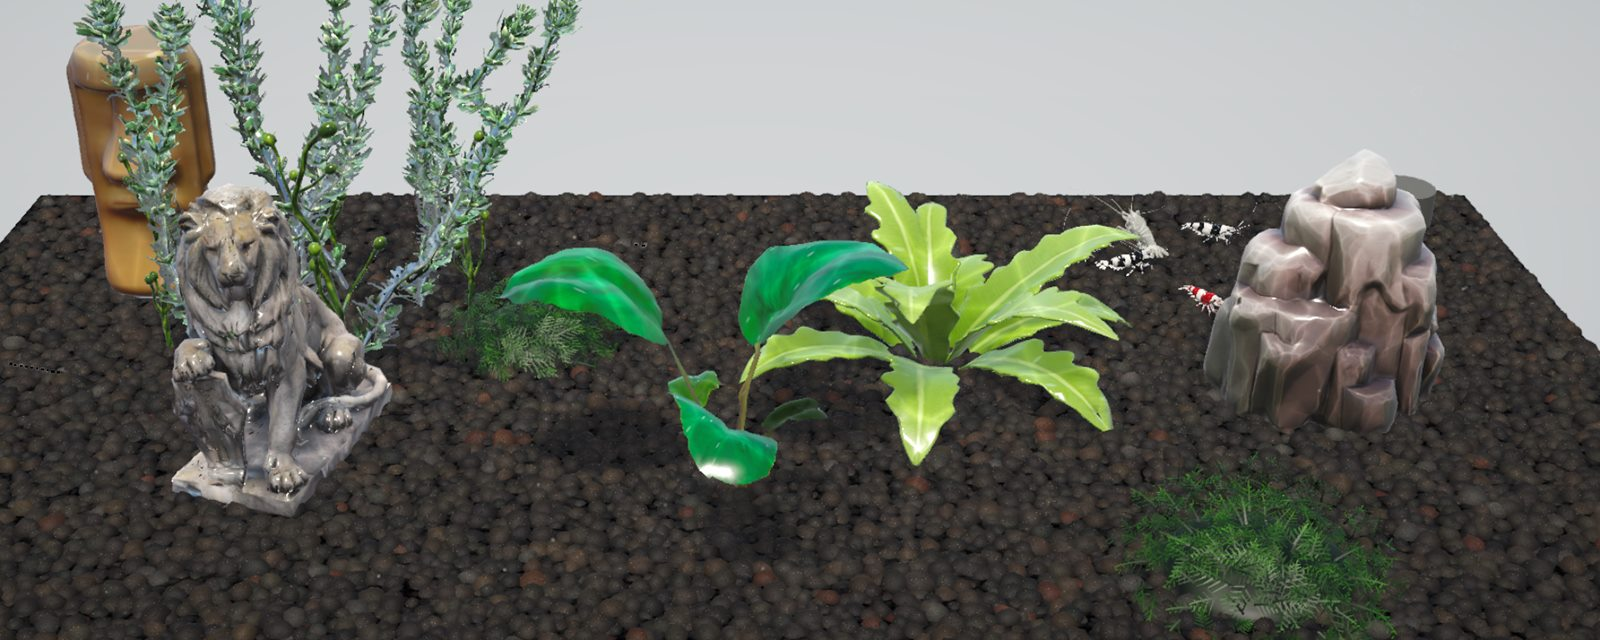
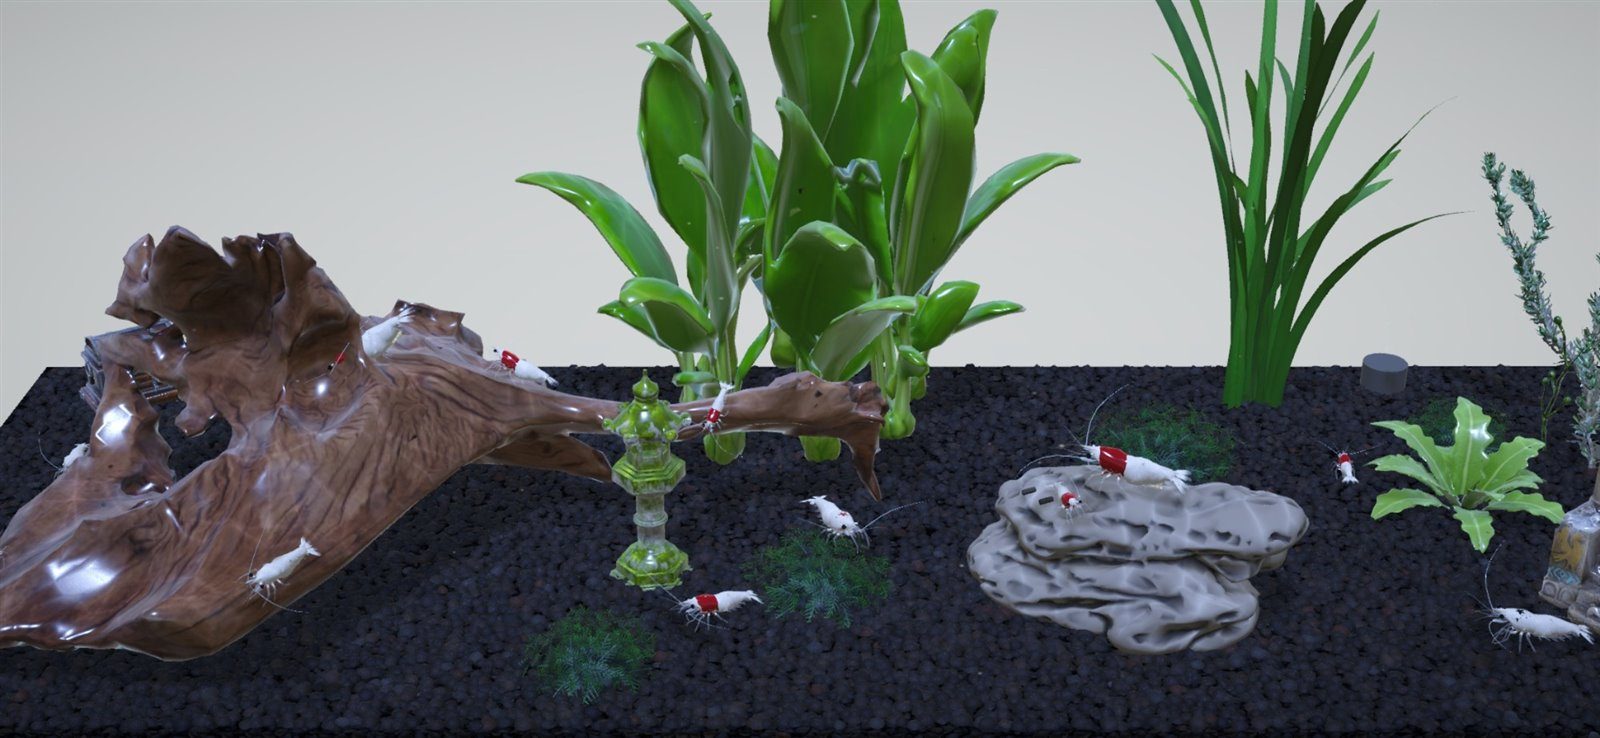
Update main screenshot and contact email

diff --git a/index.html b/index.html
@@ -165,7 +165,7 @@
         </p>
 
         <figure class="shot reveal">
-          <img src="/assets/img/tank.jpg" alt="A planted aquarium in Crystal Shrimp Tank, with crystal shrimp grazing among Anubias, Java Fern, a rock formation and a lion statue on dark soil" width="1600" height="640" loading="lazy">
+          <img src="/assets/img/tank.jpg?v=2" alt="A planted aquarium in Crystal Shrimp Tank, with crystal shrimp climbing driftwood and grazing around a stone lantern, sword plants and a flat rock on dark soil" width="1600" height="738" loading="lazy">
         </figure>
 
         <ul class="features">
@@ -251,7 +251,7 @@
       <div class="wrap contact__inner reveal">
         <h2>Say hello.</h2>
         <p>Questions, feedback, or partnership ideas — we’d love to hear from you.</p>
-        <a class="btn btn--primary" href="mailto:contact@praxiumhub.com">contact@praxiumhub.com</a>
+        <a class="btn btn--primary" href="mailto:praxiumhub@naver.com">praxiumhub@naver.com</a>
       </div>
     </section>
   </main>

diff --git a/privacy.html b/privacy.html
@@ -65,7 +65,7 @@
       <p>We may update this policy as our apps evolve. Changes will be posted on this page with a new “last updated” date.</p>
 
       <h2>Contact</h2>
-      <p>Questions about privacy? Email <a href="mailto:contact@praxiumhub.com">contact@praxiumhub.com</a>.</p>
+      <p>Questions about privacy? Email <a href="mailto:praxiumhub@naver.com">praxiumhub@naver.com</a>.</p>
     </div>
   </main>
 
